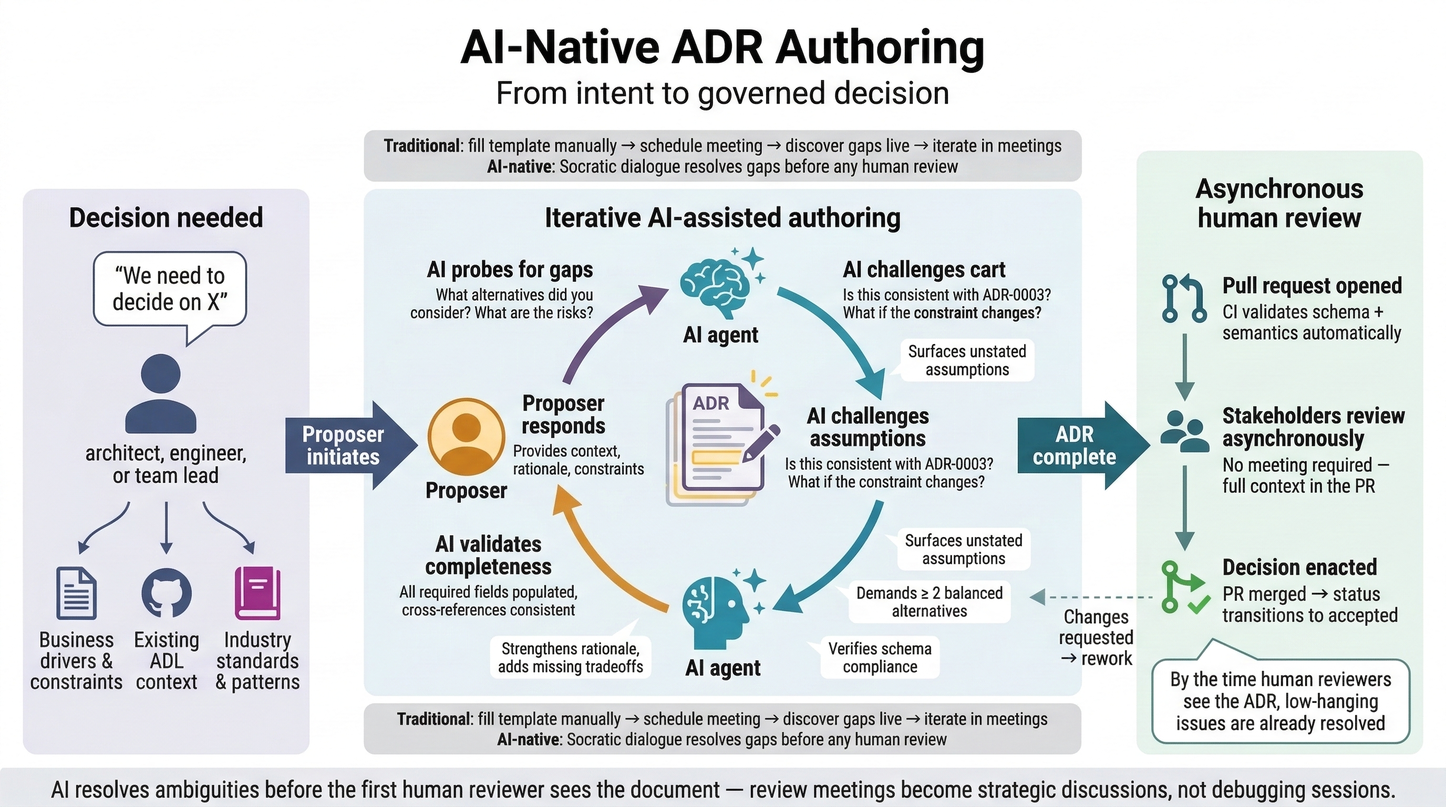
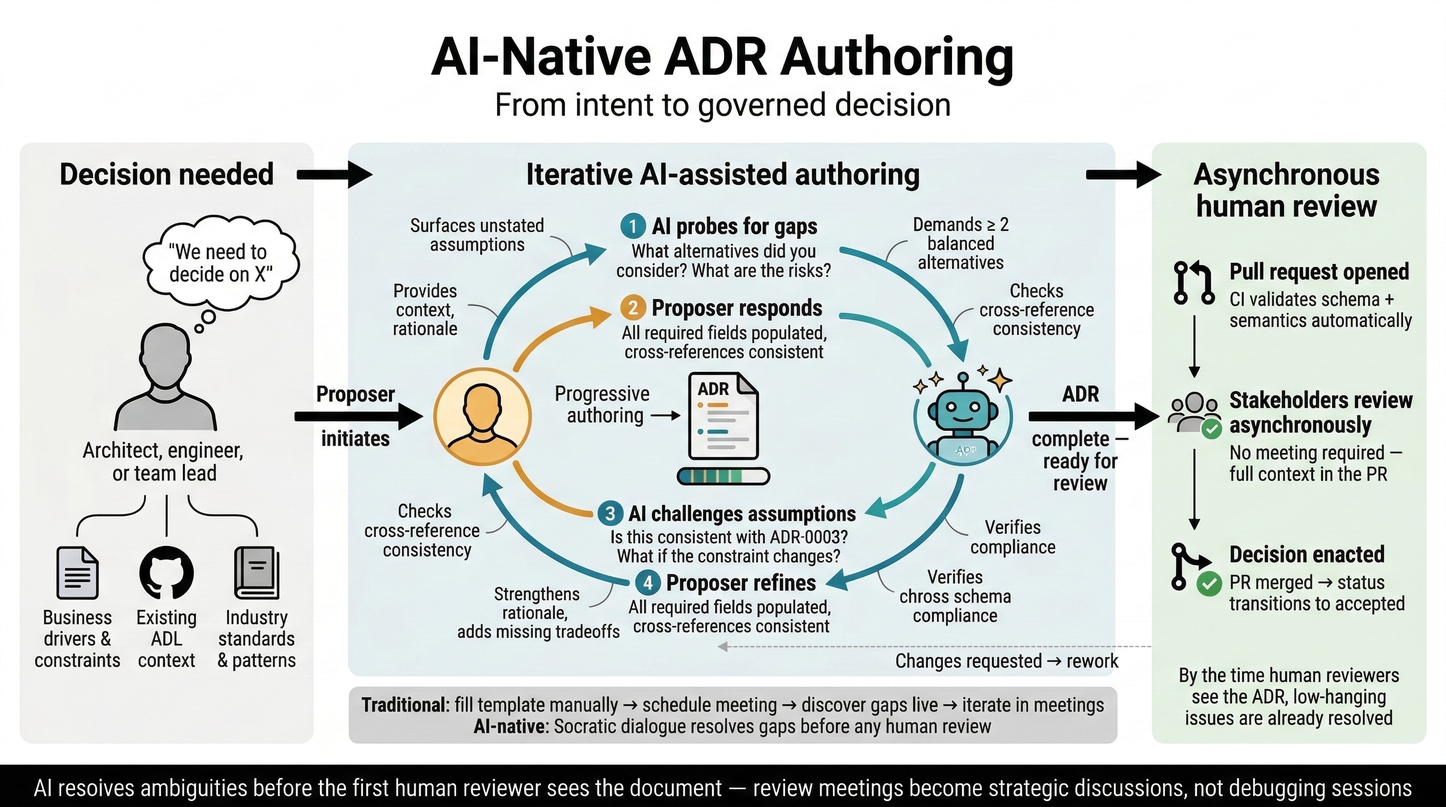
feat: add repository audit report and update visual assets and their generation prompts.

diff --git a/visuals/prompts/01-hero-overview.prompt.md b/visuals/prompts/01-hero-overview.prompt.md
@@ -102,7 +102,7 @@ Overall layout:
   - Center (~50% width): "The Framework" — what this system provides.
   - Right (~25% width): "The Outcome" — what you get.
 - Use a subtle gradient or tonal shift across the three regions to reinforce the left→right narrative: the left region should feel slightly darker or muted (representing the broken status quo), the center should be the most visually rich and vibrant (the framework), and the right should feel clean and resolved (the outcome).
-- Place a title at the top center of the canvas: "ADR Governance" in a large, bold heading. Underneath it, in smaller type: "Schema-Governed, AI-Native Architecture Decision Records".
+- Place a title at the top center of the canvas: "ADR Governance" in a large, bold heading.
 
 Left region — "The Problem":
 - Region heading: "Status quo" or "Without structured governance".

diff --git a/visuals/prompts/03-ai-socratic-authoring.prompt.md b/visuals/prompts/03-ai-socratic-authoring.prompt.md
@@ -149,7 +149,7 @@ Visual connections and flow:
 - The overall left→right flow must be unmistakable: intent → AI dialogue → governed outcome.
 
 Contrast callout (optional, if space permits):
-- A small, muted "traditional approach" strip at the very top or bottom of the center region, showing the contrast:
+- A small, muted "traditional approach" strip placed only at the bottom of the center region, directly above the footer sentence, showing the contrast:
   - "Traditional: fill template manually → schedule meeting → discover gaps live → iterate in meetings"
   - "AI-native: Socratic dialogue resolves gaps before any human review"
 - Keep this very compact and visually subordinate — it's supporting context, not the main story.
